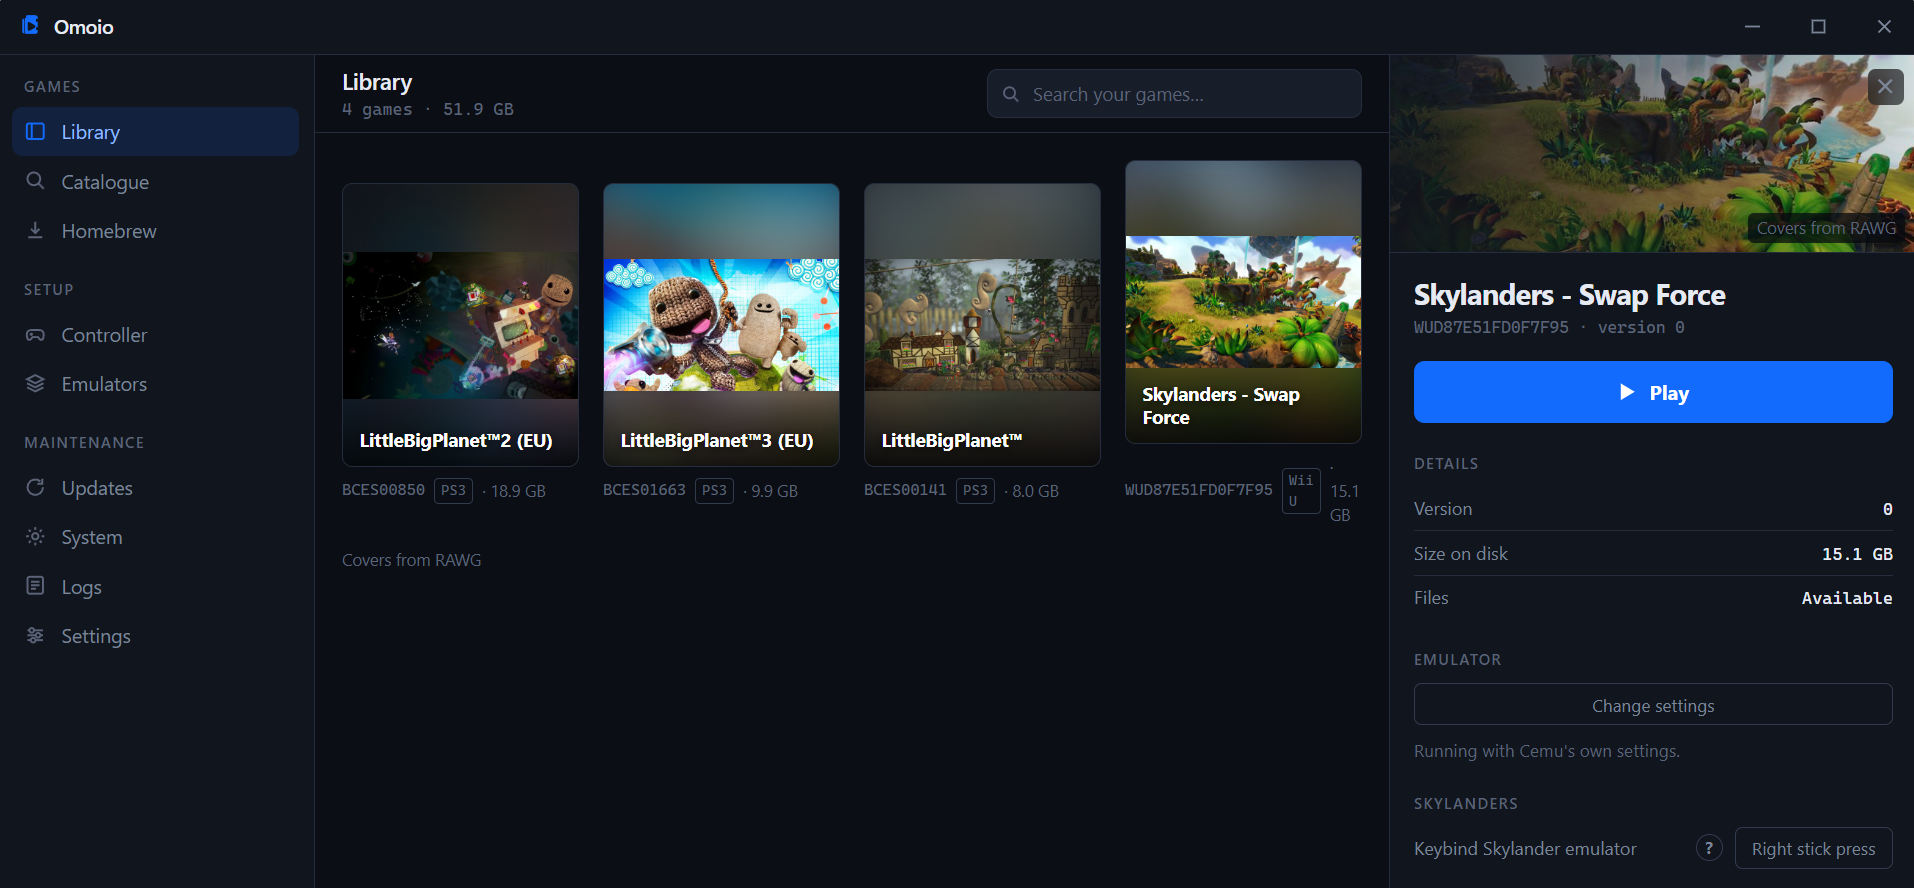
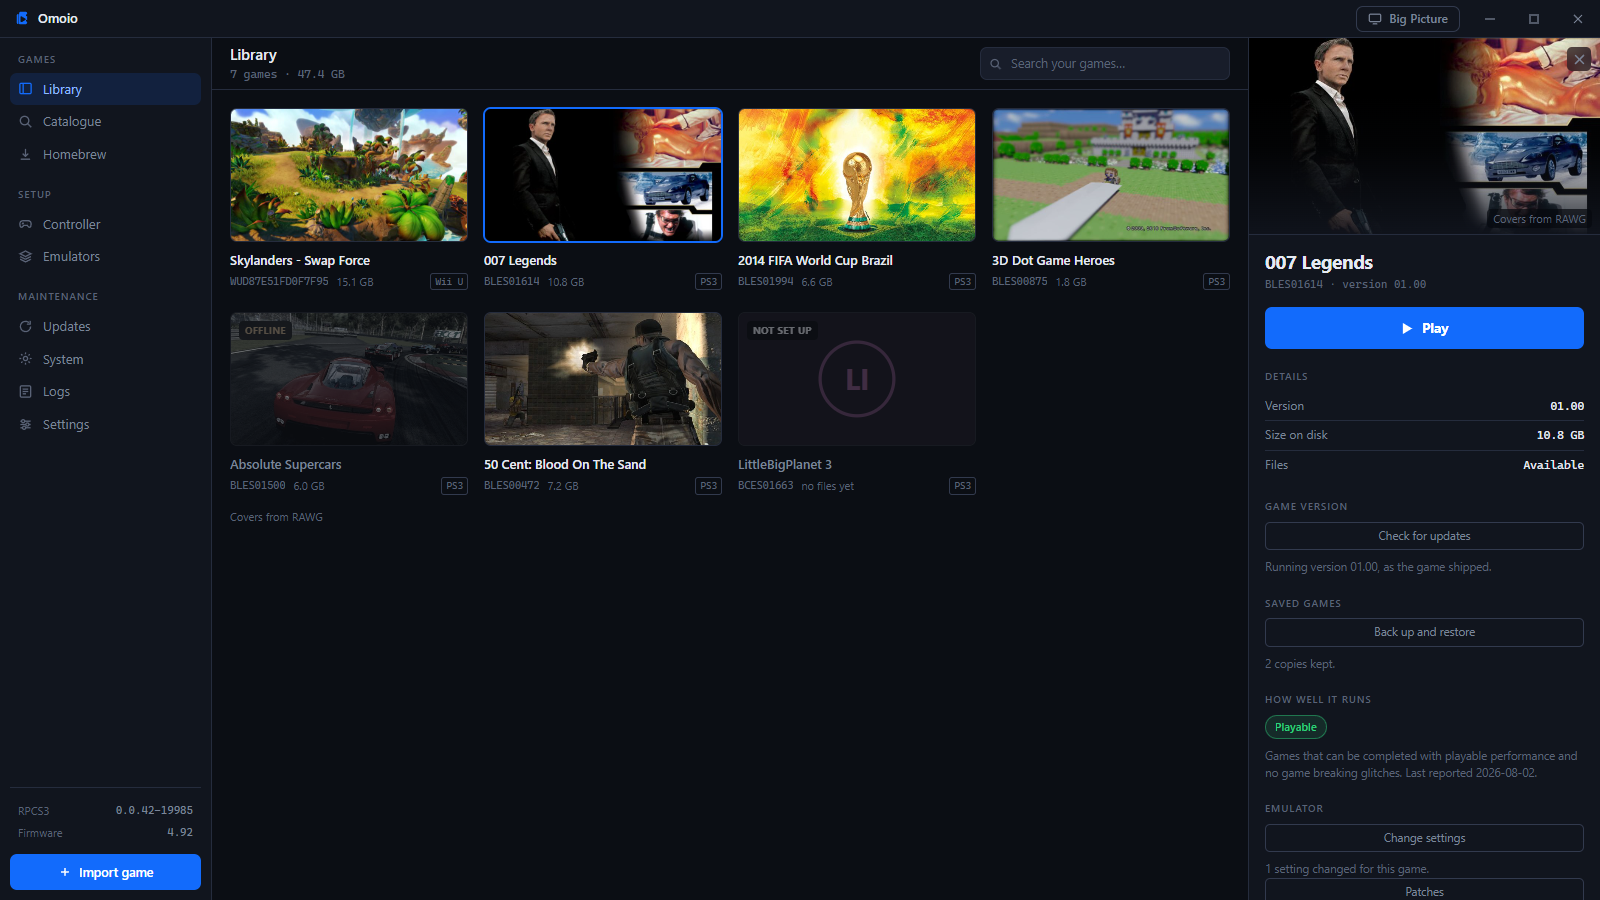
Rewrite the README with pictures of each main screen and a Q&A
The library, Big Picture, the Skylanders portal menu and the Emulators
screen each get a picture, and common questions get short answers in
folding sections. Issue forms ask for the game, the system and the log,
so a report arrives with what is needed to follow it up.

diff --git a/README.md b/README.md
@@ -2,53 +2,202 @@
   <img src="Images/Icon/omoio-icon.svg" width="96" alt="Omoio logo">
 </p>
 <h1 align="center">Omoio</h1>
+<p align="center">Your PS3 and Wii U games in one library. Press Play and Omoio sets up the emulator for you.</p>
 
-Omoio puts all your console games in one library and plays them without you ever
-touching an emulator. Import your dumps, press Play, and Omoio sets up the
-emulator, the controller and the picture for you. It's made for big collections
-spread across systems, the kind that sits on a few drives in a home lab.
+![The library, with the panel for 007 Legends open](design/screenshots/library.png)
+<sub>Covers in these pictures come from [RAWG](https://rawg.io).</sub>
 
-![The library, with PS3 and Wii U games side by side](design/screenshots/library.png)
-<sub>Covers from [RAWG](https://rawg.io).</sub>
+Omoio is a game library for Windows. You import the dumps of games you own
+and press Play. Omoio installs the emulator and sets up your controller, then
+starts the game in its own window. It's made for big collections spread across
+systems, the kind that sits on a few drives in a home lab.
 
-**Very early development.** PS3 (RPCS3) and Wii U (Cemu) work today, and eight
-more are planned: PS4, PS2, GameCube and Wii, PSP, PS1, Game Boy Advance, PS Vita
-and DS. Things will break, and feedback is really appreciated, so open an issue.
+Omoio is in very early development. PS3 games run through RPCS3 and Wii U games
+through Cemu, and more systems are planned. Things will break, and feedback is
+really appreciated, so open an issue.
 
 ## What you get
 
-- One library for every system. Import a folder, a zip or 7z, or scan a whole
-  drive at once.
-- Games play inside Omoio's window, fullscreen with F11. You never see the
+- One library for every system. Import a folder, a zip or 7z file, or scan a
+  whole drive at once.
+- Games run inside Omoio's window, fullscreen with F11, and you never see the
   emulator.
-- Big Picture for a TV: the whole screen, used with a controller, with each
-  game's settings, patches and saves. Press View and Menu together during a
-  game to come back to it, with the game waiting.
-- Emulators installed and kept up to date for you.
-- One controller layout for every emulator, set up by pressing buttons, for up to
-  four players.
-- A catalogue of about 4,500 PS3 and Wii U games showing how well each one runs.
-- PS3 updates, patches and save backups, and emulator settings for each game.
-- A Skylanders portal menu for Wii U games that you use from the controller.
-- Real cover art from RAWG if you want it, with a free key. Otherwise Omoio draws
-  its own tiles.
+- RPCS3 and Cemu installed for you and kept up to date.
+- One controller layout for every emulator, set by pressing the buttons, for up
+  to four players.
+- For PS3 games, official updates, community patches, save backups and RPCS3's
+  settings for each game. Homebrew installs from a .pkg you already have.
+- For Wii U games, Cemu's settings for each game, and disc images read with your
+  own keys.
+- A catalogue of PS3 and Wii U games that tells you how well each one runs.
+- Real covers from RAWG if you add a free key. Without one, Omoio draws its own
+  tiles.
+
+## Big Picture
+
+![Big Picture with Skylanders SWAP Force picked](design/screenshots/big-picture.jpg)
+
+Big Picture fills the screen and is made for a TV and a controller, with each
+game's settings, patches and saves inside it. Press View and Menu together
+during a game to come back to Big Picture while the game keeps running. The same
+two buttons take you back into the game.
+
+## The Skylanders portal
+
+![The portal menu over Skylanders SWAP Force, with a swapper going on the portal](design/screenshots/portal-menu.jpg)
+
+Skylanders games need figures on a portal. In a Skylanders game on Wii U, press
+the Guide button, or the button you picked for it, and Omoio's portal menu opens
+over the game. Choose a character with the controller and it goes on the
+portal. The first time, Cemu's own figure maker makes the figure, and Omoio saves
+it so the figure keeps what it has earned. Swappers can be mixed: pick a top,
+then a bottom, and each one shows how it moves.
+
+Omoio can also show every figure's own picture, read from your copy of SWAP
+Force: a .wua file that Cemu packed, or an unpacked game folder. A small
+separate program, [omoio-portraits](https://github.com/Bertrram/omoio-portraits),
+does the reading. Omoio downloads it only when you ask and checks it before it
+runs. The pictures stay on your computer.
 
 ## Install
 
-Download `Omoio_x.y.z_x64-setup.exe` from Releases and run it. It doesn't need
-admin rights. On first start it asks which emulators you want. PS3 games also
-need Sony's free firmware: Omoio opens the download page and installs the file
-you pick.
+Download `Omoio_x.y.z_x64-setup.exe` from [Releases](../../releases) and run it.
+It doesn't need admin rights. On first start it asks which emulators you want.
+PS3 games also need Sony's free firmware: Omoio opens Sony's download page and
+installs the file you pick.
 
 The installer isn't code signed yet, so Windows SmartScreen may warn you. Click
 More info, then Run anyway.
 
+## Q&A
+
+<details>
+<summary>Does Omoio come with games, or say where to find them?</summary>
+<br>
+
+No. Omoio plays dumps of games you own. It won't download games, link to them
+or help you find them.
+
+</details>
+
+<details>
+<summary>Which systems does it run?</summary>
+<br>
+
+PS3 through RPCS3 and Wii U through Cemu. The Emulators screen lists what comes
+next: PS4, PS2, GameCube and Wii, PSP, PS1, Game Boy Advance, PS Vita and DS.
+Each one is added once its download and its licence have been checked.
+
+![The Emulators screen, with RPCS3 and Cemu installed and eight more coming](design/screenshots/emulators.png)
+
+</details>
+
+<details>
+<summary>Do I need to install RPCS3 or Cemu first?</summary>
+<br>
+
+No. Omoio downloads their official builds and keeps them up to date. It runs them
+as separate programs, and you never have to open either one.
+
+</details>
+
+<details>
+<summary>Why does Windows warn me about the installer?</summary>
+<br>
+
+SmartScreen warns about programs that aren't code signed, and a signing
+certificate costs money every year, so Omoio doesn't have one yet. Click More
+info, then Run anyway.
+
+</details>
+
+<details>
+<summary>Where does the PS3 firmware come from?</summary>
+<br>
+
+From Sony. Omoio opens Sony's official firmware page, you download the file, and
+Omoio installs the one you pick. It never fetches firmware by itself.
+
+</details>
+
+<details>
+<summary>Why won't my Wii U disc image import?</summary>
+<br>
+
+Wii U disc images (.wud and .wux) are encrypted, and Cemu needs your disc's key
+to read one. Add your own keys file on the Emulators screen. Omoio hands the keys
+to Cemu and never supplies any. Unpacked game folders need no keys. Downloads in
+NUS form aren't supported.
+
+</details>
+
+<details>
+<summary>Which controllers work?</summary>
+<br>
+
+Xbox controllers, and other pads that speak XInput, work in both emulators.
+Other pads work in RPCS3 through SDL, and Cemu doesn't take them yet. You set one
+layout on the Controller screen and Omoio uses it everywhere, for up to four
+players.
+
+</details>
+
+<details>
+<summary>Where are my saves?</summary>
+<br>
+
+PS3 saves are in Omoio's own copy of RPCS3. Omoio backs them up before every
+game update, and the game's panel can back them up or put an older copy back.
+Wii U saves are in Omoio's copy of Cemu, without backups so far.
+
+</details>
+
+<details>
+<summary>Does Omoio change the emulators' settings?</summary>
+<br>
+
+Only where it has a reason it can point to. It writes your controller layout. For
+PS3 games it also sets a resolution that fits your screen, and switches on a
+short list of fixes for named games, each with its reason shown. Everything else
+stays at the emulator's defaults, and you can change any setting for each game.
+
+</details>
+
+<details>
+<summary>Where do the covers come from?</summary>
+<br>
+
+By default Omoio draws its own tiles. Turn covers on in Settings and add a free
+RAWG key, and Omoio shows RAWG's pictures with a credit wherever they appear.
+
+</details>
+
+<details>
+<summary>Does it run on Mac or Linux?</summary>
+<br>
+
+No, only on Windows.
+
+</details>
+
+<details>
+<summary>Something broke. What should I send?</summary>
+<br>
+
+Open an issue that says which game it was and what happened. The Logs screen
+keeps a log of every play session, and the one from when it went wrong helps a
+lot.
+
+</details>
+
 ## The small print
 
 Omoio doesn't come with games and won't help you find any, so bring your own
-dumps of games you own. It doesn't crack anything: Wii U disc images need your own
-keys file, added on the Emulators screen. RPCS3 and Cemu are separate projects,
-run as their official builds, and all credit for the emulation goes to them.
+dumps of games you own. It doesn't crack anything: Wii U disc images need your
+own keys file, and Cemu does the decrypting. PS3 firmware comes from Sony's page,
+downloaded by you. Covers come only from RAWG, and the Skylanders pictures only
+from your own copy of the game. RPCS3 and Cemu are separate projects, run as
+their official builds, and all credit for the emulation goes to them.
 
 ## Build
 
